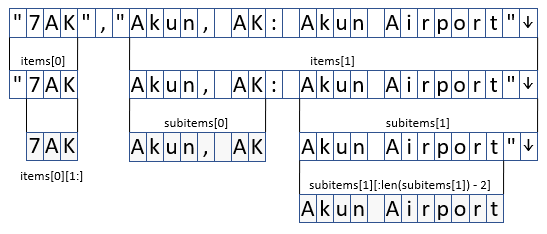
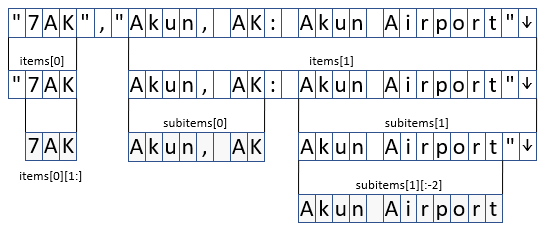
Updated strings lesson

Changed region(s): [[0.0, 0.0299, 0.9982, 0.9573], [0.0312, 0.7179, 0.156, 0.7778]]

diff --git a/Introduction to Python/final/3-working-with-strings.md b/Introduction to Python/final/3-working-with-strings.md
@@ -118,7 +118,7 @@ In this exercise, you will use string slicing and string splitting to parse the 
 	    airport_code = items[0][1:]
 	    subitems = items[1].split(': ')
 	    airport_location = subitems[0]
-	    airport_name = subitems[1][:len(subitems[1]) - 2]
+	    airport_name = subitems[1][:-2]
 	    print('{0:8}{1:32}{2:1}'.format(airport_code, airport_location, airport_name))
 	```
 
@@ -130,7 +130,7 @@ In this exercise, you will use string slicing and string splitting to parse the 
 
 	_Printing airport data_
 
-	The diagram below shows how we got from a string such as '"7AK","Akun, AK: Akun Airport"' to '7AK', 'Akun, AK', and 'Akun Airport'. First the string is split at "," to produce `items[0]` and `items[1]`. Then the quotation mark is removed from the beginning of `items[0]`, producing an airport code. Next, `items[1]` is split to produce `subitems[0]` and `subitems[1]`. The former is the airport location, and the quotation mark and embedded newline character are removed from the end of `subitems[1]` to get the airport name.
+	The diagram below shows how we got from a string such as '"7AK","Akun, AK: Akun Airport"' to '7AK', 'Akun, AK', and 'Akun Airport'. First the string is split at "," to produce `items[0]` and `items[1]`. Then the quotation mark is removed from the beginning of `items[0]`, producing an airport code. Next, `items[1]` is split to produce `subitems[0]` and `subitems[1]`. The former is the airport location, and the quotation mark and embedded newline character are removed from the end of `subitems[1]` to get the airport name. in Python, [:-2] is a clever way to remove the last two characters from a string.
 
 	![Splitting and trimming strings](media/string-splitting.png)
 
@@ -146,7 +146,7 @@ In this exercise, you will use string slicing and string splitting to parse the 
 	    airport_code = items[0][1:]
 	    subitems = items[1].split(': ')
 	    airport_location = subitems[0]
-	    airport_name = subitems[1][:len(subitems[1]) - 2]
+	    airport_name = subitems[1][:-2]
 	    airports.append([airport_code, airport_location, airport_name])
 	    
 	for airport in airports:
